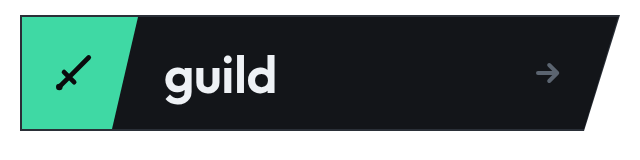
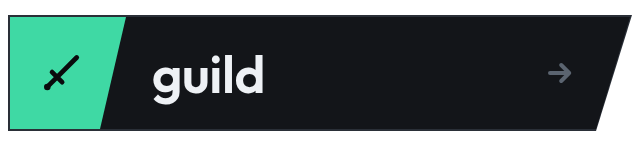
Panel buttons: 312 wide, flush with the info panels under them

diff --git a/css/graphics.css b/css/graphics.css
@@ -103,9 +103,11 @@ html,body{width:100vw;height:100vh;background:transparent;overflow:hidden;margin
 /* Eén breedte voor de hele set. Twitch zet de panelen onder elkaar in een
    kolom van 320; knoppen die elk zo breed zijn als hun woord staan dan als
    een rafelige trap gecentreerd onder elkaar. Nu lopen het kopblok, het
-   woord en de schuine staart in één lijn door de hele kolom. */
+   woord en de schuine staart in één lijn door de hele kolom. 312 is de
+   breedte van de infopanelen (320 min hun 4px aan elke kant), zodat een
+   knop precies boven zijn paneel staat. */
 .g--panel #stage{display:grid;place-items:center;padding:0}
-.g--panel .rib{width:300px}
+.g--panel .rib{width:312px}
 .g--panel .rib__in{padding-right:calc(var(--rib-cut) + 8px)}
 .g--panel .rib__val{flex:1 1 auto;font-weight:600;letter-spacing:-.01em}
 /* De pijl zegt wat het is: een paneel dat ergens heen gaat. Ink-400, zodat
